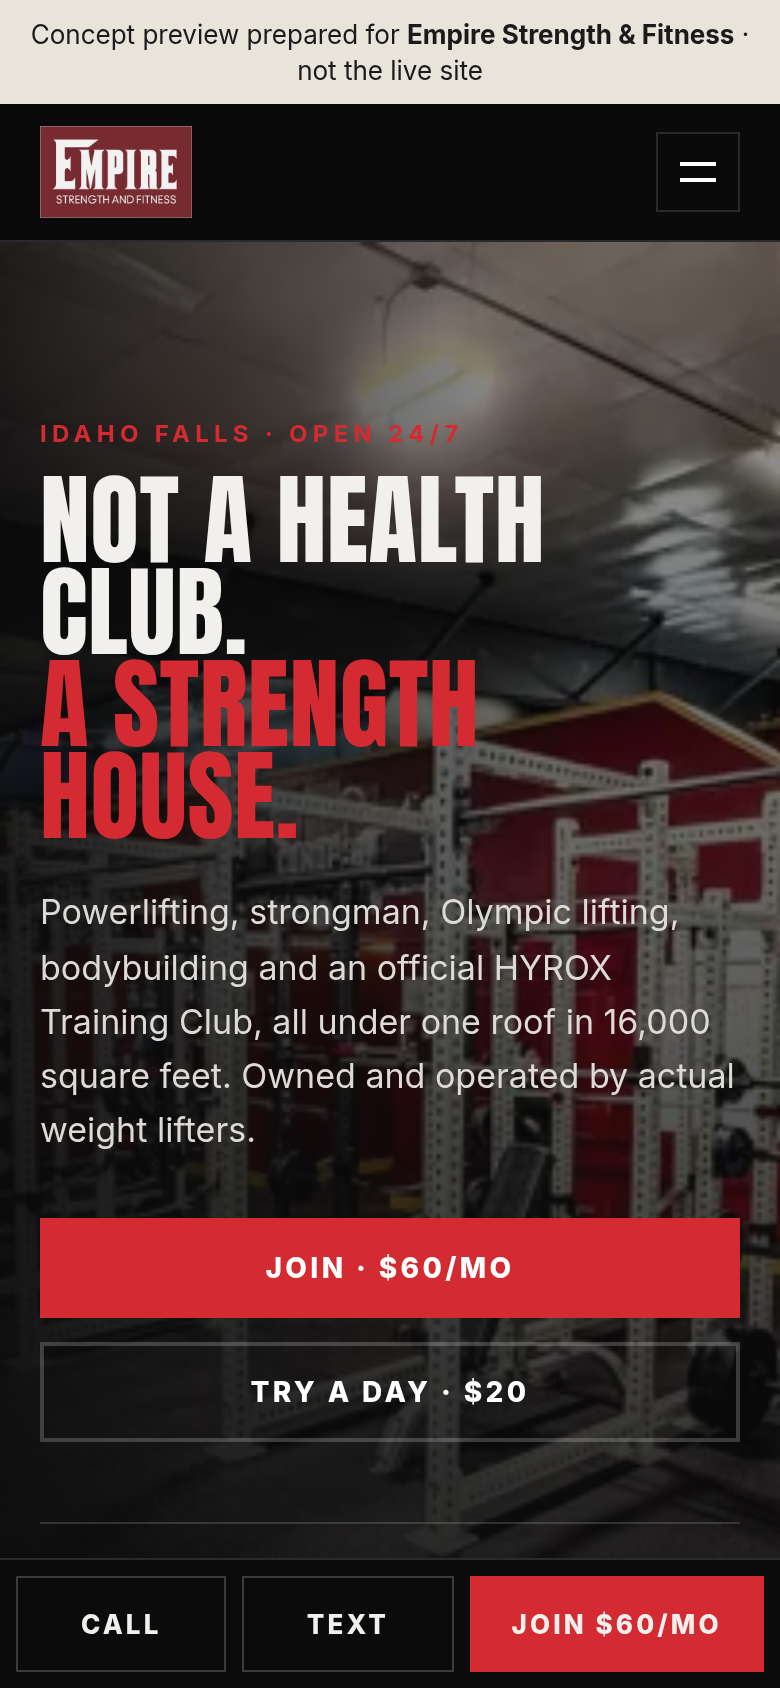
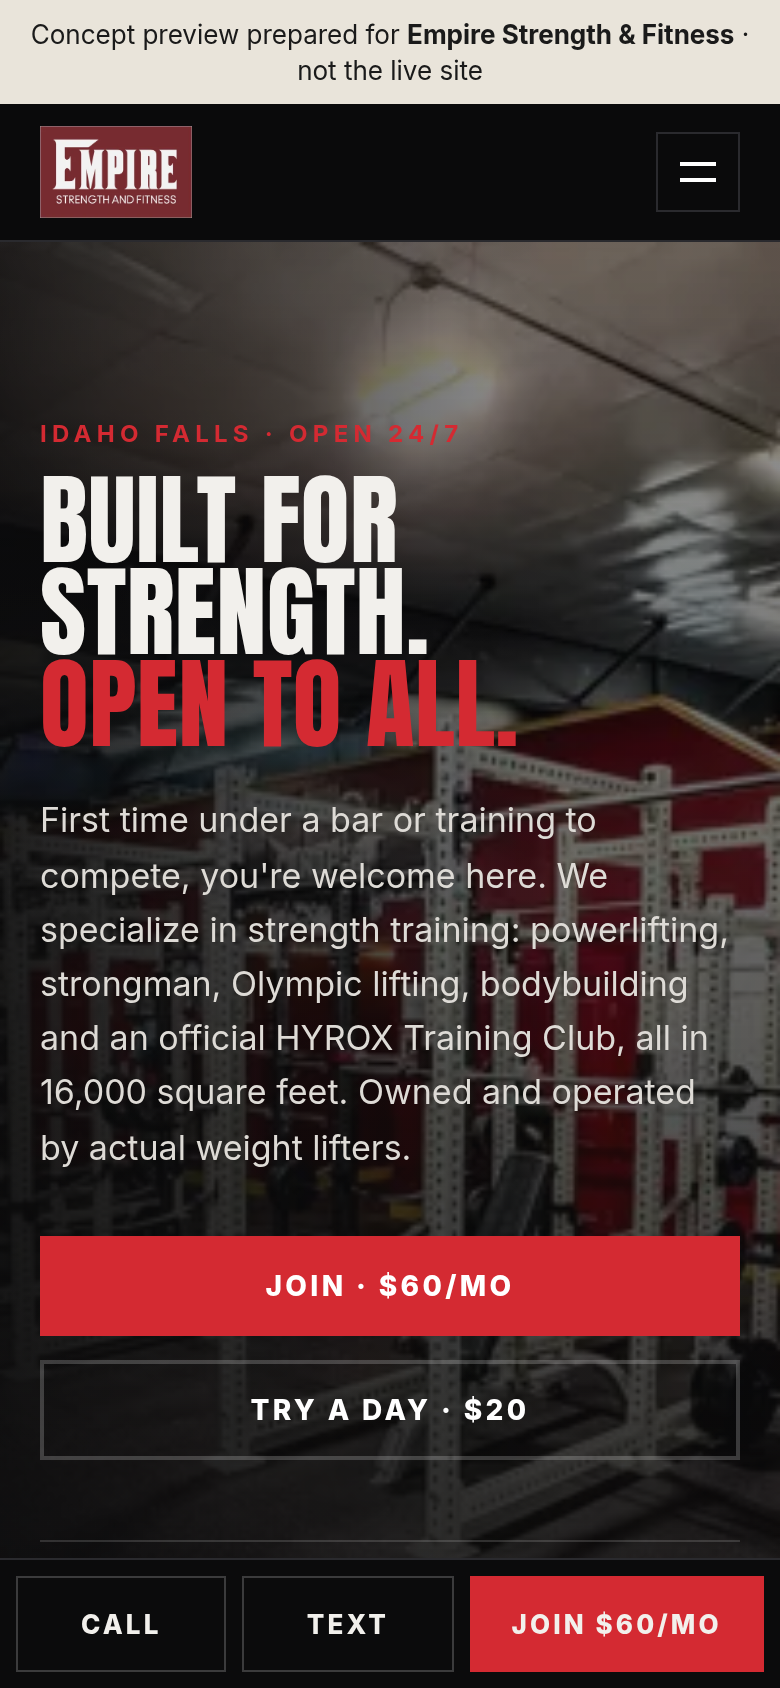
Welcoming strength-first messaging; remove not-a-health-club/CrossFit framing

Changed region(s): [[0.0308, 0.2773, 1.0, 0.8934], [0.8, 0.2773, 1.0, 0.3697]]

diff --git a/site/index.html b/site/index.html
@@ -5,7 +5,7 @@
 <meta name="viewport" content="width=device-width, initial-scale=1">
 <meta name="robots" content="noindex, nofollow">
 <title>Empire Strength &amp; Fitness | Idaho Falls' 24/7 Strength Gym</title>
-<meta name="description" content="Idaho Falls' 24/7 strength gym. Powerlifting, strongman, Olympic lifting, bodybuilding and an official HYROX Training Club in 16,000 sq ft. $60/month, no contract, no sign-up fee.">
+<meta name="description" content="Idaho Falls' 24/7 strength gym, open to every level. Powerlifting, strongman, Olympic lifting, bodybuilding and an official HYROX Training Club in 16,000 sq ft. $60/month, no contract, no sign-up fee.">
 <meta property="og:title" content="Empire Strength &amp; Fitness | Idaho Falls' 24/7 Strength Gym">
 <meta property="og:description" content="Powerlifting, strongman, Olympic lifting, bodybuilding and HYROX. 24/7 access, $60/month, no contract.">
 <meta property="og:image" content="img/og.jpg">
@@ -22,7 +22,7 @@
   "@id": "https://www.empirestrengthandfitness.com/#gym",
   "name": "Empire Strength and Fitness",
   "legalName": "Empire Strength and Fitness LLC",
-  "description": "Idaho Falls' 24/7 strength gym: powerlifting, strongman, Olympic lifting, bodybuilding, functional training and an official HYROX Training Club, with saunas, cold tubs, a free kids area and an on-site chiropractor.",
+  "description": "Idaho Falls' 24/7 strength gym, welcoming every level from first-time lifters to competitors: powerlifting, strongman, Olympic lifting, bodybuilding, functional training and an official HYROX Training Club, with saunas, cold tubs, a free kids area and an on-site chiropractor.",
   "url": "https://www.empirestrengthandfitness.com",
   "logo": "https://static.wixstatic.com/media/039492_977966210184470d87fae1e568eb1cfc~mv2.jpg",
   "image": "https://static.wixstatic.com/media/039492_1c50e09b344443ef938e08e3a3aff669~mv2.jpg",
@@ -96,7 +96,7 @@
     {"@type":"Question","name":"How much is a membership?","acceptedAnswer":{"@type":"Answer","text":"Single is $60 per month and Family starts at $100 per month. Student is $40, Solo Hero is $35 and Family Hero is $70 per month. A day pass is $20 and a week pass is $40."}},
     {"@type":"Question","name":"Can I bring my kids?","acceptedAnswer":{"@type":"Answer","text":"Yes. Members' kids can use the Thunderdome, Empire's supervised kids area, at no extra cost."}},
     {"@type":"Question","name":"Can I try Empire before joining?","acceptedAnswer":{"@type":"Answer","text":"Yes. Idaho Falls locals new to Empire get 3 days free, started in the office during office hours (Mon-Fri 10:00 am to 5:30 pm). A day pass is $20 and a week pass is $40."}},
-    {"@type":"Question","name":"Is Empire a CrossFit gym?","acceptedAnswer":{"@type":"Answer","text":"No. Empire is not a CrossFit gym, but it is an official HYROX Training Club."}}
+    {"@type":"Question","name":"Do I need lifting experience to join Empire?","acceptedAnswer":{"@type":"Answer","text":"No. Whether you are stepping into a gym for the first time, building everyday strength or preparing to compete, there is room for you at Empire, and a coach can help you build a foundation."}}
   ]
 }
 </script>
@@ -133,8 +133,8 @@
   </picture>
   <div class="wrap hero-inner">
     <p class="eyebrow">Idaho Falls · Open 24/7</p>
-    <h1>Not a health club.<br><span class="red">A strength house.</span></h1>
-    <p class="lede">Powerlifting, strongman, Olympic lifting, bodybuilding and an official HYROX Training Club, all under one roof in 16,000 square feet. Owned and operated by actual weight lifters.</p>
+    <h1>Built for strength.<br><span class="red">Open to all.</span></h1>
+    <p class="lede">First time under a bar or training to compete, you're welcome here. We specialize in strength training: powerlifting, strongman, Olympic lifting, bodybuilding and an official HYROX Training Club, all in 16,000 square feet. Owned and operated by actual weight lifters.</p>
     <div class="hero-ctas">
       <a class="btn btn-red" href="https://www.empirestrengthandfitness.com/join">Join · $60/mo</a>
       <a class="btn btn-ghost" href="https://www.empirestrengthandfitness.com/passes">Try a day · $20</a>
@@ -159,11 +159,11 @@
 
 <section class="manifesto">
   <div class="wrap manifesto-grid">
-    <h2 class="display">Strength is<br>the point.</h2>
+    <h2 class="display">Everyone welcome.<br><span class="red">Strength first.</span></h2>
     <div>
-      <p class="big">You don't come here to wander between machines. You come to put weight on the bar, learn to move it well, and come back stronger than you left.</p>
+      <p class="big">Wherever you're starting, there's room for you here. Brand new, getting back into training or chasing your next big lift, we'll help you put weight on the bar, move it well and come back stronger.</p>
       <p>First-time lifters and serious competitors share the same floor at Empire. A coach can build your foundation, refine your technique, or get you ready to compete. Then you show up, put in the work, and keep becoming your best self.</p>
-      <p class="tag">We are <span class="red">not</span> a CrossFit® gym. Go forth and conquer.</p>
+      <p class="tag">Become your best self. <span class="red">Go forth and conquer.</span></p>
     </div>
   </div>
 </section>
@@ -432,7 +432,7 @@
       <details><summary>Can I bring my kids?</summary><p>Yes. Members' kids can use the Thunderdome, our kids area, at no extra cost.</p></details>
       <details><summary>Can I try it first?</summary><p>Yes. Idaho Falls locals new to Empire get 3 days free, started in the office during office hours. A day pass is $20 and a week pass is $40.</p></details>
       <details><summary>What happens after a paid-in-full year?</summary><p>It renews automatically for another 12 months unless you opt out before the renewal date. Paid-in-full plans are non-refundable but transferable.</p></details>
-      <details><summary>Is this a CrossFit gym?</summary><p>No. But we are an official HYROX Training Club.</p></details>
+      <details><summary>Do I need lifting experience to join?</summary><p>No. Whether you're stepping into a gym for the first time, building everyday strength or preparing to compete, you'll find your fit. A coach can help you build a foundation.</p></details>
     </div>
   </div>
 </section>

diff --git a/pitch.md b/pitch.md
@@ -3,12 +3,12 @@
 **Live preview:** https://empire-strength-mockup.pages.dev (noindex, concept only)
 
 ## The one-line pitch
-Your gym is already the strength house of Idaho Falls. Your website should say it in the first two seconds, load instantly on a phone, and tell Google and AI the right phone number.
+Your gym is already where Idaho Falls gets strong. Your website should say it in the first two seconds, load instantly on a phone, and tell Google and AI the right phone number.
 
 ## What changed and why
 
-**1. Positioned as a strength house, not a health club.**
-The hero now reads "Not a health club. A strength house." over a real photo of your rack row, followed by powerlifting, strongman, Olympic lifting, bodybuilding and HYROX. The six disciplines get their own numbered grid. The tone (sharp type, obsidian black, Empire red) is about putting weight on the bar and becoming your best self, not wellness.
+**1. Strength-first, and open to everyone.**
+The hero now reads "Built for strength. Open to all." over a real photo of your rack row, followed by powerlifting, strongman, Olympic lifting, bodybuilding and HYROX. The six disciplines get their own numbered grid. The tone (sharp type, obsidian black, Empire red) is about putting weight on the bar and becoming your best self, with first-time lifters and competitors equally welcome.
 
 **2. The offer up front, every time.**
 "Join · $60/mo" and "Try a day · $20" are the first buttons you see. On phones, a sticky bar keeps **Call · Text · Join $60/mo** under the thumb on every screen.

diff --git a/score.md b/score.md
@@ -27,7 +27,7 @@ Audited: Nov 19, 2026 (MST). Pages fetched with curl (home, /join, /join/paid-in
 
 ### What's good (honestly)
 - Clear, transparent pricing with no contract, no sign-up fee, easy cancel, and a math-backed paid-in-full page.
-- A real point of view: "Owned and operated by actual weight lifters", "We are not a CrossFit® gym", "Go forth and conquer."
+- A real point of view: "Owned and operated by actual weight lifters", "Go forth and conquer."
 - Real coach roster, real photos of the floor, real community programs (LWYS, Boxing with Parkinson's, Thunderdome).
 
 ## Business facts (from empirestrengthandfitness.com unless noted)
